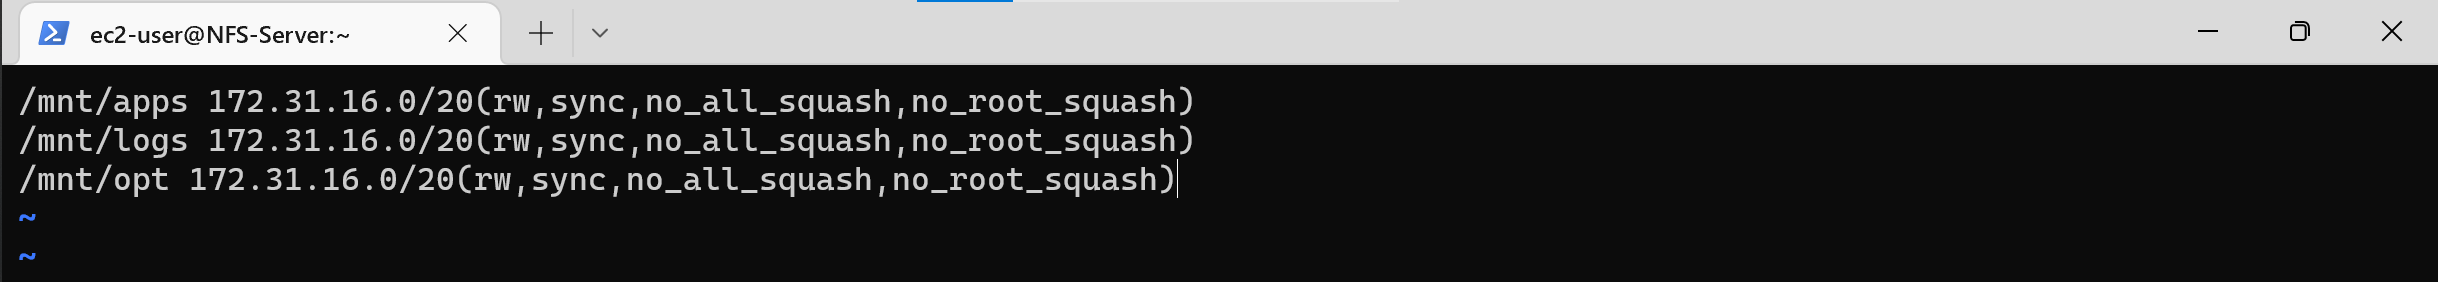
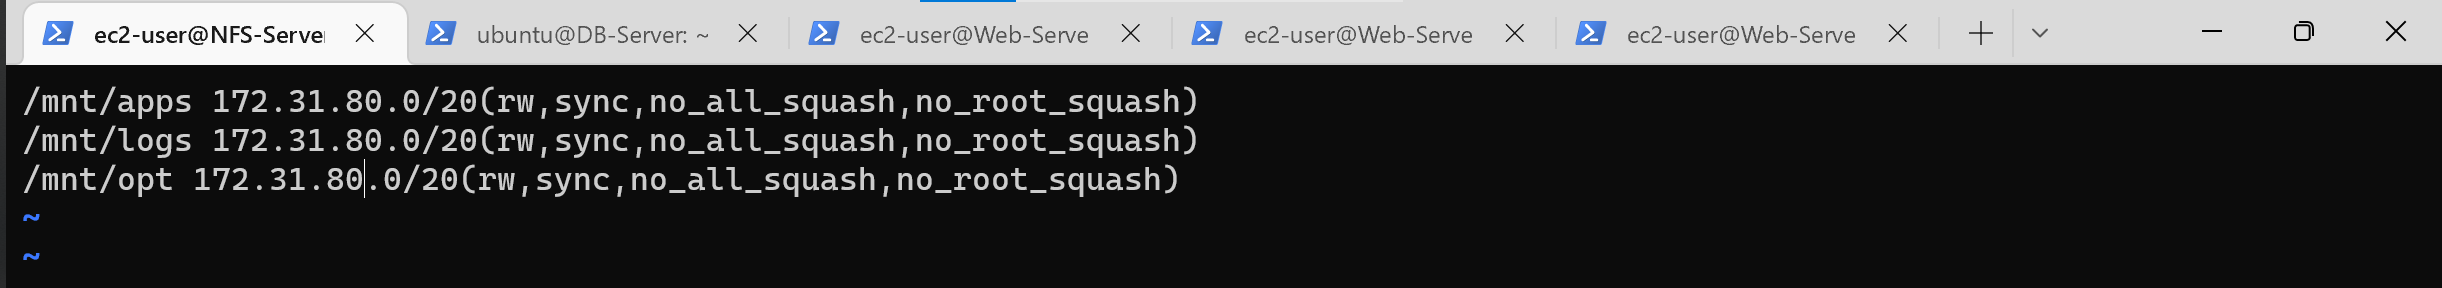
completed

diff --git a/project_7.md b/project_7.md
@@ -164,8 +164,8 @@ Update the NFS file system table by adding the below exports.
 
 ```bash
 /mnt/apps 172.31.80.0/20(rw,sync,no_all_squash,no_root_squash)
-/mnt/logs 172.31.16.0/20(rw,sync,no_all_squash,no_root_squash)
-/mnt/opt 172.31.16.0/20(rw,sync,no_all_squash,no_root_squash)
+/mnt/logs 172.31.80.0/20(rw,sync,no_all_squash,no_root_squash)
+/mnt/opt 172.31.80.0/20(rw,sync,no_all_squash,no_root_squash)
 ```
 
 ![mount](/images/14.png)
